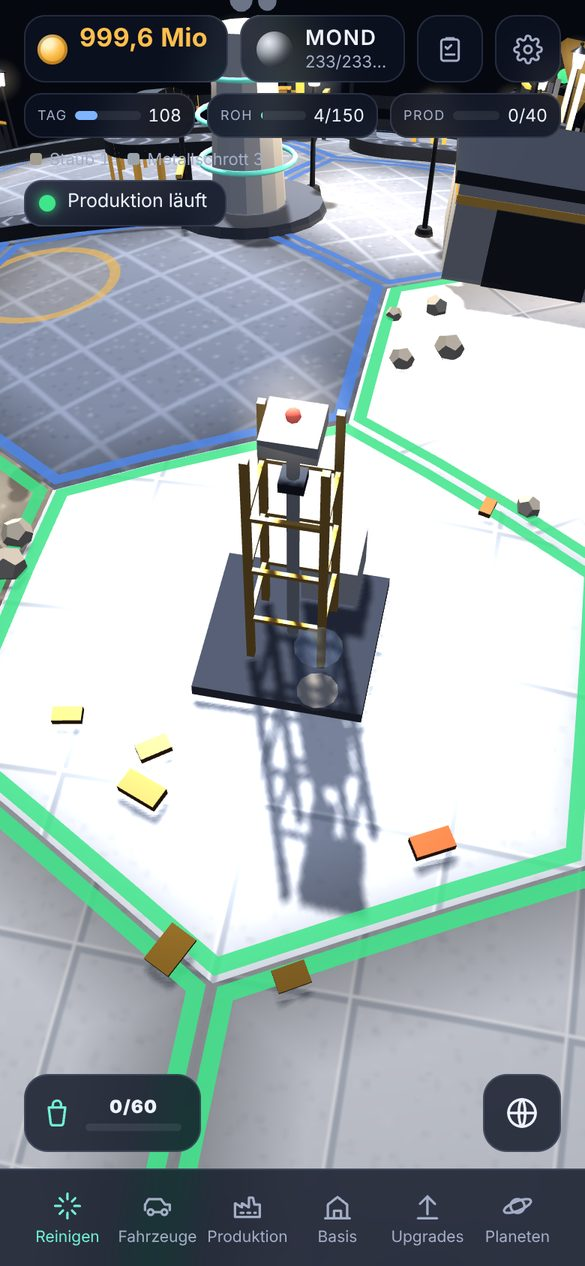
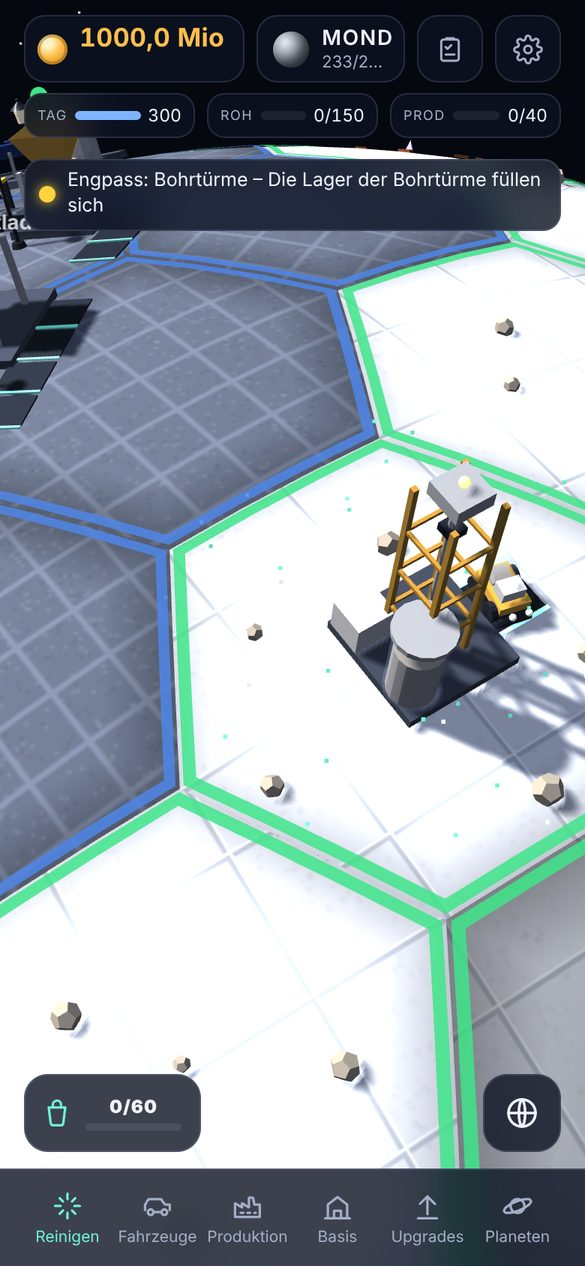
v4.5: drilling rigs store their output, vehicles collect it; visible drilling
Claude-Session: https://claude.ai/code/session_01BgWwPMjR5e7A1i71jfEEtX

diff --git a/prototype/index.html b/prototype/index.html
@@ -914,10 +914,18 @@ function vehStep(pid,sp,v,dt,f,live){
   switch(v.mode){
     case 'seek':{
       if(tank>=cap*.98||battLow(v)){v.mode='toUnload';break;}
+      {const rg=pickRig(pid,sp,v,false);if(rg){rg.claim=v.id;v.rig=rg.cell;v.mode='toRig';break;}}
       const c=chooseCell(pid,sp,v);
-      if(c<0){if(tank>.5){v.mode='toUnload';break;}v.status=v.fix!=null?'Kein verfügbarer Arbeitsbereich':'Kein Auftrag';
+      if(c<0){const rg=pickRig(pid,sp,v,true);if(rg){rg.claim=v.id;v.rig=rg.cell;v.mode='toRig';break;}if(tank>.5){v.mode='toUnload';break;}v.status=v.fix!=null?'Kein verfügbarer Arbeitsbereich':'Kein Auftrag';
         const pp=parkPos(sp,v);if(!navMove(pid,v,basePlanDir(pd,pp[0],pp[1]),spd*.7*dt,R))v.busy=true;break;}
       if(!ensureAct(pid,c)){v.fix=null;break;}v.cell=c;v.ti=-1;if(requestLift(pid,sp,v,c))break;v.mode='drive';break;}
+    case 'toRig':{const r=(sp.rigs||[]).find(x=>x.cell===v.rig);if(!r||r.claim!==v.id){v.rig=null;v.mode='seek';break;}
+      v.busy=true;battUse(v,dt);v.status='Fährt zum Bohrturm';if(navMove(pid,v,rigDock(pid,r),spd*dt,R))v.mode='rigload';break;}
+    case 'rigload':{const r=(sp.rigs||[]).find(x=>x.cell===v.rig);if(!r){v.rig=null;v.mode='seek';break;}
+      const b=sumObj(r.buf),amt=Math.min(RIG.load*uv('urate')*dt,cap-tank,b);v.status='Lädt am Bohrturm';
+      if(amt>0){const k=amt/b;for(const m in r.buf){const x=r.buf[m]*k;r.buf[m]-=x;if(r.buf[m]<1e-6)delete r.buf[m];v.tank[m]=(v.tank[m]||0)+x;}v.coll=(v.coll||0)+amt;}
+      if(cap-sumObj(v.tank)<.5||sumObj(r.buf)<.05){r.claim=null;v.rig=null;v.mode=sumObj(v.tank)>.5?'toUnload':'seek';}
+      break;}
     case 'liftwait':{if(v.lift==null||!sp.lifters.some(l=>l.id===v.lift&&l.veh===v.id)){v.lift=null;v.mode='drive';break;}v.status='Wartet auf Lastdrohne';break;}
     case 'lifted':{if(v.lift==null||!sp.lifters.some(l=>l.id===v.lift&&l.veh===v.id)){v.lift=null;v.mode='drive';break;}v.status='Wird eingeflogen';break;}
     case 'drive':case 'clean':{
@@ -1015,7 +1023,7 @@ function outpostWhy(pid,id){const sp=S.planets[pid],w=W[pid],cl=planetData(pid).
   if(sp.outposts.some(o=>o.cell===id||cl.nb.includes(o.cell)))return 'Zu nah an einem anderen Außenlager';return '';}
 /* ---- Tiefenabbau: once a planet is completely clean, drilling rigs on clean parcels mine raw material forever and pump it to the base.
    Their flow is what makes belts, machines, storage, night power and selling worth expanding on finished planets. ---- */
-const RIG={buf:150,pipe:6,energy:1.5,base:.8};
+const RIG={buf:300,load:16,energy:1.5,base:.8};
 const rigRich=(pid,id)=>{let h=(id*2654435761+(PORDER.indexOf(pid)+1)*40503)>>>0;h^=h>>>15;h=Math.imul(h,2246822519)>>>0;h^=h>>>13;return .6+(h%1000)/1000;};
 const rigMax=sp=>2+2*sp.stage;
 const rigCost=pid=>Math.round(3000*PLANETS[pid].diff*Math.pow(1.45,(S.planets[pid].rigs||[]).length));
@@ -1037,15 +1045,19 @@ function buildRig(id){const pid=S.planet,sp=SP();if(id==null||id<0){id=bestRigCe
   toast('Bohrturm auf '+cellName(id)+' fördert '+MATS[rigMat(pid,id)].name+' ('+richTxt(rigRich(pid,id))+'es Vorkommen)','good');save();}
 function rigStep(pid,sp,r,dt,f){const m=rigMat(pid,r.cell),b=sumObj(r.buf);
   if(b<RIG.buf-.01){const x=Math.min(RIG.buf-b,rigRate(pid,r)*f*dt);r.buf[m]=(r.buf[m]||0)+x;r.mined=(r.mined||0)+x;S.ctr.deep=(S.ctr.deep||0)+x;sp.stats.value+=x*MATS[m].v*pvM(pid);if(TRACK){const t=TRACK.p[pid];t.mats[m]=(t.mats[m]||0)+x;}r.busy=true;}else r.busy=false;
-  const fr=rohCap()-rohSum(sp),bb=sumObj(r.buf);
-  if(bb>.001&&fr>.01){const amt=Math.min(bb,fr,RIG.pipe*uv('bspeed')*Math.max(.25,f)*dt),k=amt/bb;for(const mm in r.buf){const y=r.buf[mm]*k;r.buf[mm]-=y;sp.roh[mm]=(sp.roh[mm]||0)+y;}}
-  r.status=sumObj(r.buf)>=RIG.buf-.5?(fr<=.01?'Steht – Rohstofflager voll':'Puffer voll – Leitung zu langsam'):f<.6?'Bohrt langsam – zu wenig Energie':'Bohrt';}
+  if(r.claim!=null&&!sp.veh.some(v=>v.id===r.claim&&v.rig===r.cell&&(v.mode==='toRig'||v.mode==='rigload')))r.claim=null;
+  r.status=sumObj(r.buf)>=RIG.buf-.5?(sp.veh.length?'Lager voll – wartet auf Abholung':'Lager voll – kein Fahrzeug holt ab'):f<.6?'Bohrt langsam – zu wenig Energie':'Bohrt'+(r.claim!=null?' · Fahrzeug holt ab':'');}
+const rigDock=(pid,r)=>toDir(planetData(pid).cells[r.cell],2.7,0,planetData(pid).R);
+/* vehicles pick up from rigs: whenever they have nothing to clean, or when a rig store is 70 % full */
+function pickRig(pid,sp,v,idle){if(v.fix!=null||!(sp.rigs||[]).length)return null;const cap=tankCap(v)-sumObj(v.tank);if(cap<5)return null;let best=null,bs=1e9;
+  for(const r of sp.rigs){if(r.claim!=null)continue;const b=sumObj(r.buf);if(b<(idle?Math.min(15,RIG.buf*.05):RIG.buf*.7))continue;const d=arcDist(v.d,rigDock(pid,r),planetData(pid).R)-b*.05;if(d<bs){bs=d;best=r;}}
+  return best;}
 function rigSec(pid,id){const sp=S.planets[pid],r=(sp.rigs||[]).find(x=>x.cell===id),m=rigMat(pid,id),rich=rigRich(pid,id);
-  if(r)return '<section class="sec"><h3>Bohrturm</h3><p class="note">Fördert '+MATS[m].name+' aus der Tiefe und pumpt es durch eine unterirdische Leitung ins Rohstofflager. Braucht Strom – auch nachts.</p><dl class="kv"><dt>Status</dt><dd data-b="'+bind(()=>r.status)+'"></dd><dt>Vorkommen</dt><dd>'+richTxt(rich)+' · ×'+dec(rich,2)+'</dd><dt>Förderung</dt><dd data-b="'+bind(()=>dec(rigRate(pid,r)*60,0)+' '+MATS[m].name+' pro Minute')+'"></dd><dt>Puffer</dt><dd data-b="'+bind(()=>fmt(sumObj(r.buf))+' / '+RIG.buf)+'"></dd><dt>Gefördert</dt><dd data-b="'+bind(()=>fmt(r.mined||0))+'"></dd></dl>'+upgRow('rigrate')+'</section>';
+  if(r)return '<section class="sec"><h3>Bohrturm</h3><p class="note">Fördert '+MATS[m].name+' aus der Tiefe und sammelt es im eigenen Lager. Deine Fahrzeuge holen es ab, sobald sie nichts zu reinigen haben oder das Lager zu 70 % voll ist. Braucht Strom – auch nachts.</p><dl class="kv"><dt>Status</dt><dd data-b="'+bind(()=>r.status)+'"></dd><dt>Vorkommen</dt><dd>'+richTxt(rich)+' · ×'+dec(rich,2)+'</dd><dt>Förderung</dt><dd data-b="'+bind(()=>dec(rigRate(pid,r)*60,0)+' '+MATS[m].name+' pro Minute')+'"></dd><dt>Lager</dt><dd data-b="'+bind(()=>fmt(sumObj(r.buf))+' / '+RIG.buf+' E')+'"></dd><dt>Gefördert</dt><dd data-b="'+bind(()=>fmt(r.mined||0))+'"></dd></dl>'+upgRow('rigrate')+'</section>';
   if(!S.done[pid])return '';const why=rigWhy(pid,id);
-  return '<section class="sec"><h3>Tiefenabbau</h3><p class="note">'+(why?why+'.':'Tiefenvorkommen: <b>'+richTxt(rich)+'</b> (×'+dec(rich,2)+') '+MATS[m].name+'. Ein Bohrturm fördert hier dauerhaft und pumpt alles in die Basis.')+'</p>'+(why?'':'<button class="buy wide" data-act="buildrig" data-id="'+id+'" data-en="'+bind(()=>S.credits>=rigCost(pid))+'">Bohrturm bauen · '+cr(rigCost(pid))+'</button>')+'</section>';}
+  return '<section class="sec"><h3>Tiefenabbau</h3><p class="note">'+(why?why+'.':'Tiefenvorkommen: <b>'+richTxt(rich)+'</b> (×'+dec(rich,2)+') '+MATS[m].name+'. Ein Bohrturm fördert hier dauerhaft, deine Fahrzeuge holen die Ladung ab.')+'</p>'+(why?'':'<button class="buy wide" data-act="buildrig" data-id="'+id+'" data-en="'+bind(()=>S.credits>=rigCost(pid))+'">Bohrturm bauen · '+cr(rigCost(pid))+'</button>')+'</section>';}
 function rigBaseSec(pid){const sp=S.planets[pid];if(!S.done[pid])return '';const rs=sp.rigs||[],n=rs.length,mx=rigMax(sp);
-  return '<section class="sec"><h3>Tiefenabbau</h3><p class="note">'+PLANETS[pid].name+' ist komplett sauber – jetzt geht es in die Tiefe. Bohrtürme auf sauberen Parzellen fördern dauerhaft Rohstoffe und pumpen sie in die Basis. Je mehr sie liefern, desto mehr lohnen schnellere Bänder, Maschinen, Lager, Strom für die Nacht und Verkaufskapazität. Jede Basisstufe erlaubt 2 Bohrtürme mehr.</p>'+
+  return '<section class="sec"><h3>Tiefenabbau</h3><p class="note">'+PLANETS[pid].name+' ist komplett sauber – jetzt geht es in die Tiefe. Bohrtürme auf sauberen Parzellen fördern dauerhaft Rohstoffe in ihr eigenes kleines Lager, deine Fahrzeuge holen sie dort ab. Je mehr sie liefern, desto mehr lohnen Fahrzeuge, Bänder, Maschinen, Lager, Strom für die Nacht und Verkaufskapazität. Jede Basisstufe erlaubt 2 Bohrtürme mehr.</p>'+
     '<dl class="kv"><dt>Bohrtürme</dt><dd>'+n+' / '+mx+'</dd><dt>Förderung</dt><dd data-b="'+bind(()=>dec((SP().rigs||[]).reduce((a,r)=>a+rigRate(S.planet,r),0)*60,0)+' E pro Minute')+'"></dd></dl>'+
     (n<mx?'<button class="buy wide" data-act="buildrig" data-id="-1" data-en="'+bind(()=>S.credits>=rigCost(S.planet))+'">Bohrturm auf dem besten Vorkommen · '+cr(rigCost(pid))+'</button><p class="note">Oder tippe eine saubere Parzelle an und baue dort.</p>':sp.stage<5?'<p class="note">Alle Plätze belegt – baue die Basis aus, um 2 weitere Bohrtürme zu bekommen.</p>':'')+
     upgRow('rigrate')+'</section>';}
@@ -1053,7 +1065,9 @@ function rigModel(L){const g=new THREE.Group(),v={g};add(Box(3.6,.3,3.6),L.pad,0
   for(const[x,z]of[[-.75,-.75],[.75,-.75],[-.75,.75],[.75,.75]])add(Box(.16,6.2,.16),legM,x,3.3,z,g);
   for(const y of[1.6,3.2,4.8])for(const[x,z,w,d]of[[0,-.75,1.5,.1],[0,.75,1.5,.1],[-.75,0,.1,1.5],[.75,0,.1,1.5]])add(Box(w,.1,d),legM,x,y,z,g);
   add(Box(1.1,.45,1.1),L.metal,0,6.55,0,g);v.drill=add(Cyl(.13,.13,6,8),L.metal,0,3.3,0,g);add(Box(.5,.25,.5),L.dark,0,5.2,0,g).position.y=5.2;
-  add(Box(1.3,1.1,1.2),L.white,1.55,.85,.6,g);add(Cyl(.5,.5,1.6,12),L.glass,-1.4,1.1,.8,g,false);v.fill=add(Cyl(.44,.44,1,12),mat(0xa49c8e,{roughness:.9}),-1.4,.5,.8,g);
+  add(Box(1.2,1,1.1),L.white,-1.2,.8,-1.15,g);add(Cyl(.75,.75,2.6,16),L.glass,-1.15,1.6,.95,g,false);v.fill=add(Cyl(.68,.68,1,16),mat(0xa49c8e,{roughness:.9}),-1.15,.5,.95,g);add(Cyl(.85,.85,.18,16),L.metal,-1.15,2.95,.95,g);
+  add(Box(1.7,.06,1.7),L.dark,2.7,.05,0,g,false);v.dockM=L.mint.clone();v.dockM.emissiveIntensity=.15;add(Box(1.8,.05,.12),v.dockM,2.7,.1,.9,g,false);add(Box(1.8,.05,.12),v.dockM,2.7,.1,-.9,g,false);
+  v.spark=new THREE.MeshStandardMaterial({color:0xffd08a,emissive:0xffb04d,emissiveIntensity:0});add(Sph(.32,10,8),v.spark,0,.42,0,g,false);
   v.beacon=new THREE.MeshStandardMaterial({color:0xff6b5b,emissive:0xff6b5b,emissiveIntensity:1});add(Sph(.15,8,6),v.beacon,0,6.95,0,g,false);
   const h=new THREE.Sprite(LAMP.halo);h.position.set(0,6.95,0);h.scale.set(2.4,2.4,1);h.renderOrder=6;g.add(h);
   g.traverse(o=>{if(o.isMesh)o.castShadow=true;});return v;}
@@ -2101,7 +2115,9 @@ const LCOL=[0x3fe58a,0xffd23f,0xff4d3d];
 function flowReport(pid){const sp=S.planets[pid],out=[];const o=CUR;CUR=pid;try{
   const add=(id,name,lvl,why,fix)=>out.push({id,name,lvl,why,fix:fix||[]});const rf=rohSum(sp)/rohCap(),pf=prodSum(sp)/prodCap();
   if(sp.ef<.99&&(sp.veh.length||sp.bld.presse||(sp.rigs||[]).length)){const night=!dayInfo(pid,sp).day;add(sp.bld.energy?'energy':'hq','Energie',2,night?'Nacht und der Speicher ist leer – mehr Akkupark, Radioisotopen-Generator oder Kernreaktor.':'Energie reicht nicht – Fahrzeuge, Bänder und Maschinen laufen langsamer.',night?['ecap','energy']:['energy','ecap']);}
-  {const rs=sp.rigs||[],stop=rs.filter(r=>r.status&&r.status.startsWith('Steht')).length,slow=rs.filter(r=>r.status&&r.status.startsWith('Puffer')).length;if(stop)add('roh','Bohrtürme',2,stop+' Bohrturm'+(stop>1?'türme':'')+' steht – das Rohstofflager ist voll. Mehr Lager, schnellere Bänder oder mehr Verkauf.',['rohcap','bspeed','sellcap']);else if(slow)add('roh','Bohrtürme',1,'Die Leitungen der Bohrtürme sind zu langsam – schnellere Bänder helfen.',['bspeed']);}
+  {const rs=sp.rigs||[],full=rs.filter(r=>sumObj(r.buf)>=RIG.buf-.5).length,high=rs.filter(r=>sumObj(r.buf)>=RIG.buf*.7).length;
+    if(full)add('roh','Bohrtürme',2,full+(full>1?' Bohrtürme sind':' Bohrturm ist')+' voll – '+(sp.veh.length?'die Fahrzeuge holen nicht schnell genug ab. Mehr Fahrzeuge, größere Tanks oder schnelleres Fahrwerk.':'kauf Fahrzeuge, die abholen.'),['vtank','vspeed','urate']);
+    else if(high)add('roh','Bohrtürme',1,'Die Lager der Bohrtürme füllen sich – die Abholung wird knapp.',['vtank','vspeed']);}
   for(const s of STATIONS)if(sp.bld[s]){const f=sumObj(sp.st[s].buf)/stBuf(s),full=rf>.97,cause=full?'das Rohstofflager voll ist':'das Förderband zu langsam abtransportiert';
     if(f>.97)add(s,BLD[s].name,2,'Puffer voll – Fahrzeuge warten, weil '+cause+'.',full?['rohcap','sellcap']:['bspeed','bcap','ubuf']);
     else if(f>.7)add(s,BLD[s].name,1,'Puffer füllt sich – '+(full?'das Rohstofflager ist voll':'das Förderband kommt nicht ganz hinterher')+'.',full?['rohcap','sellcap']:['bspeed','bcap']);
@@ -2379,7 +2395,10 @@ function updateVisuals(dt,t){
   if(bvv0().rtg&&bvv0().rtg.glow)bvv0().rtg.glow.emissiveIntensity=.8+.4*Math.sin(t*2.2);
   if(bvv0().reactor&&bvv0().reactor.core)bvv0().reactor.core.emissiveIntensity=1+.5*Math.sin(t*3.1);
   for(const id of['geo','reactor'])if(bvv0()[id]&&bvv0()[id].steam&&!mapMode&&Math.random()<dt*8)emit3(basePlanDir(pd,BLD[id].pos[0]-(id==='reactor'?1:.7),BLD[id].pos[1]),R+(id==='reactor'?4.8:4),0xdfe6ef,1,.25,1.2);
-  for(const r of sp.rigs||[]){const rv=buildViews['r'+r.cell];if(!rv)continue;if(r.busy)rv.drill.rotation.y+=dt*7;const f=Math.min(1,sumObj(r.buf)/RIG.buf),hh=Math.max(.02,f*1.5);rv.fill.scale.y=hh;rv.fill.position.y=.3+hh/2;rv.beacon.emissiveIntensity=Math.sin(t*3+r.cell)>.6?1.6:.25;}
+  for(const r of sp.rigs||[]){const rv=buildViews['r'+r.cell];if(!rv)continue;const cl=pd.cells[r.cell];
+    if(r.busy){rv.drill.rotation.y+=dt*9;rv.drill.position.y=3.3-.35*(.5+.5*Math.sin(t*2.2+r.cell));rv.spark.emissiveIntensity=1.2+Math.sin(t*23+r.cell)*.6;if(!mapMode&&Math.random()<dt*14)emit3(cl.c,R+.4,DIRT[cl.type].light,1,1.6,1.6);}else rv.spark.emissiveIntensity=0;
+    const f=Math.min(1,sumObj(r.buf)/RIG.buf),hh=Math.max(.02,f*2.4);rv.fill.scale.y=hh;rv.fill.position.y=.3+hh/2;rv.dockM.emissiveIntensity=r.claim!=null?.9:.15;
+    rv.beacon.color.setHex(f>=.99?0xff6b5b:f>=.7?0xffbf4d:0x3fe58a);rv.beacon.emissive.setHex(f>=.99?0xff6b5b:f>=.7?0xffbf4d:0x3fe58a);rv.beacon.emissiveIntensity=Math.sin(t*3+r.cell)>.4?1.6:.35;}
   for(const o of sp.outposts){const ov=buildViews[o.key];if(!ov||!ov.fill)continue;const f=Math.min(1,sumObj(o.buf)/stBuf(o.key)),hh=Math.max(.02,f*2.9);ov.fill.scale.y=hh;ov.fill.position.y=.55+hh/2;
     ov.docks.forEach((m,k)=>{m.emissiveIntensity=k>=stDocks(o.key)?0:o.docks[k]?.9+.3*Math.sin(t*8):.15;});}
   if(bvv0().hangar&&bvv0().hangar.pads){const dn=sp.drones.filter(d=>d.mode==='idle'&&!d.busy).length;bvv0().hangar.pads.forEach((m,k)=>{m.emissiveIntensity=k<dn?.9:.2;});}

diff --git a/index.html b/index.html
@@ -137,7 +137,7 @@ footer .wrap{display:flex;flex-wrap:wrap;gap:8px 24px;justify-content:space-betw
 <header class="hero">
   <div class="wrap">
     <div>
-      <div class="eyebrow">Mobile Idle-Tycoon · Spielbarer Prototyp v4.4</div>
+      <div class="eyebrow">Mobile Idle-Tycoon · Spielbarer Prototyp v4.5</div>
       <h1 style="margin-top:14px">Lunar Cleanup <span>Tycoon</span></h1>
       <p class="lead">Ein ganzer Mond voller Schrott. Du wischst die ersten Parzellen selbst sauber, dann übernehmen Buggys, Förderbänder, Pressen und Drohnen. Und wenn du das Spiel schließt, putzt deine Flotte einfach weiter.</p>
       <div class="cta">
@@ -322,7 +322,7 @@ footer .wrap{display:flex;flex-wrap:wrap;gap:8px 24px;justify-content:space-betw
     <div class="trio">
       <article><img src="assets/screens/09-auftraege.jpg" width="585" height="1266" alt="Tägliche Aufträge mit Fortschrittsbalken und Belohnungen"><h3>Tägliche Aufträge</h3><p>Jeden Tag drei neue Aufgaben, etwa 600 m² reinigen oder 250 Staub verkaufen. Sie zählen auf allen Planeten und auch offline. Wer alle drei schafft, bekommt 50 % Bonus.</p></article>
       <article><img src="assets/screens/15-ziele.jpg" width="585" height="1266" alt="Ziel-Übersicht mit aktuellem Ziel und Erfolgen"><h3>Ziele und Erfolge</h3><p>44 Hauptziele führen vom ersten Wisch bis nach Pluto. Dazu kommen 17 Erfolge mit je mehreren Stufen, etwa für gereinigte Parzellen, Raketenstarts oder eingeflogene Maschinen. Alles steht in einer Übersicht.</p></article>
-      <article><img src="assets/screens/08-planeten.jpg" width="585" height="1266" alt="Planetenliste mit Fortschritt und Anzeige „reinigt sich selbst“"><h3>Sternenstaub</h3><p>Ein komplett sauberer Planet gibt dauerhaft +10 % Preise, und dort beginnt der Tiefenabbau: Bohrtürme fördern Rohstoffe aus der Tiefe, die Basis wächst weiter. Später startest du mit Sternenstaub neu: jeder bringt für immer +5 % Preise und +3 % Reinigungsleistung.</p></article>
+      <article><img src="assets/screens/08-planeten.jpg" width="585" height="1266" alt="Planetenliste mit Fortschritt und Anzeige „reinigt sich selbst“"><h3>Sternenstaub</h3><p>Ein komplett sauberer Planet gibt dauerhaft +10 % Preise, und dort beginnt der Tiefenabbau: Bohrtürme fördern Rohstoffe aus der Tiefe in ihr eigenes Lager, deine Fahrzeuge holen sie ab, und die Basis wächst weiter. Später startest du mit Sternenstaub neu: jeder bringt für immer +5 % Preise und +3 % Reinigungsleistung.</p></article>
     </div>
   </div>
 </section>
@@ -347,14 +347,14 @@ footer .wrap{display:flex;flex-wrap:wrap;gap:8px 24px;justify-content:space-betw
       <figure><img src="assets/screens/13-kernreaktor.jpg" width="585" height="1266" alt="Kernreaktor" loading="lazy"><figcaption>Kernreaktor</figcaption></figure>
       <figure><img src="assets/screens/14-nacht.jpg" width="585" height="1266" alt="Nacht" loading="lazy"><figcaption>Nachtschicht mit Scheinwerfern</figcaption></figure>
       <figure><img src="assets/screens/15-ziele.jpg" width="585" height="1266" alt="Ziele" loading="lazy"><figcaption>Ziele und Erfolge</figcaption></figure>
-      <figure><img src="assets/screens/16-bohrturm.jpg" width="585" height="1266" alt="Bohrturm" loading="lazy"><figcaption>Bohrturm auf dem sauberen Mond</figcaption></figure>
+      <figure><img src="assets/screens/16-bohrturm.jpg" width="585" height="1266" alt="Bohrturm" loading="lazy"><figcaption>Buggy holt am Bohrturm ab</figcaption></figure>
     </div>
   </div>
 </section>
 
 <footer>
   <div class="wrap">
-    <span>Lunar Cleanup Tycoon · Prototyp v4.4 · Oktober 2026</span>
+    <span>Lunar Cleanup Tycoon · Prototyp v4.5 · Oktober 2026</span>
     <span>Alle Rechte vorbehalten</span>
   </div>
 </footer>

diff --git a/site/page.html b/site/page.html
@@ -131,7 +131,7 @@ footer .wrap{display:flex;flex-wrap:wrap;gap:8px 24px;justify-content:space-betw
 <header class="hero">
   <div class="wrap">
     <div>
-      <div class="eyebrow">Mobile Idle-Tycoon · Spielbarer Prototyp v4.4</div>
+      <div class="eyebrow">Mobile Idle-Tycoon · Spielbarer Prototyp v4.5</div>
       <h1 style="margin-top:14px">Lunar Cleanup <span>Tycoon</span></h1>
       <p class="lead">Ein ganzer Mond voller Schrott. Du wischst die ersten Parzellen selbst sauber, dann übernehmen Buggys, Förderbänder, Pressen und Drohnen. Und wenn du das Spiel schließt, putzt deine Flotte einfach weiter.</p>
       <div class="cta">
@@ -316,7 +316,7 @@ footer .wrap{display:flex;flex-wrap:wrap;gap:8px 24px;justify-content:space-betw
     <div class="trio">
       <article><img src="assets/screens/09-auftraege.jpg" width="585" height="1266" alt="Tägliche Aufträge mit Fortschrittsbalken und Belohnungen"><h3>Tägliche Aufträge</h3><p>Jeden Tag drei neue Aufgaben, etwa 600 m² reinigen oder 250 Staub verkaufen. Sie zählen auf allen Planeten und auch offline. Wer alle drei schafft, bekommt 50 % Bonus.</p></article>
       <article><img src="assets/screens/15-ziele.jpg" width="585" height="1266" alt="Ziel-Übersicht mit aktuellem Ziel und Erfolgen"><h3>Ziele und Erfolge</h3><p>44 Hauptziele führen vom ersten Wisch bis nach Pluto. Dazu kommen 17 Erfolge mit je mehreren Stufen, etwa für gereinigte Parzellen, Raketenstarts oder eingeflogene Maschinen. Alles steht in einer Übersicht.</p></article>
-      <article><img src="assets/screens/08-planeten.jpg" width="585" height="1266" alt="Planetenliste mit Fortschritt und Anzeige „reinigt sich selbst“"><h3>Sternenstaub</h3><p>Ein komplett sauberer Planet gibt dauerhaft +10 % Preise, und dort beginnt der Tiefenabbau: Bohrtürme fördern Rohstoffe aus der Tiefe, die Basis wächst weiter. Später startest du mit Sternenstaub neu: jeder bringt für immer +5 % Preise und +3 % Reinigungsleistung.</p></article>
+      <article><img src="assets/screens/08-planeten.jpg" width="585" height="1266" alt="Planetenliste mit Fortschritt und Anzeige „reinigt sich selbst“"><h3>Sternenstaub</h3><p>Ein komplett sauberer Planet gibt dauerhaft +10 % Preise, und dort beginnt der Tiefenabbau: Bohrtürme fördern Rohstoffe aus der Tiefe in ihr eigenes Lager, deine Fahrzeuge holen sie ab, und die Basis wächst weiter. Später startest du mit Sternenstaub neu: jeder bringt für immer +5 % Preise und +3 % Reinigungsleistung.</p></article>
     </div>
   </div>
 </section>
@@ -341,14 +341,14 @@ footer .wrap{display:flex;flex-wrap:wrap;gap:8px 24px;justify-content:space-betw
       <figure><img src="assets/screens/13-kernreaktor.jpg" width="585" height="1266" alt="Kernreaktor" loading="lazy"><figcaption>Kernreaktor</figcaption></figure>
       <figure><img src="assets/screens/14-nacht.jpg" width="585" height="1266" alt="Nacht" loading="lazy"><figcaption>Nachtschicht mit Scheinwerfern</figcaption></figure>
       <figure><img src="assets/screens/15-ziele.jpg" width="585" height="1266" alt="Ziele" loading="lazy"><figcaption>Ziele und Erfolge</figcaption></figure>
-      <figure><img src="assets/screens/16-bohrturm.jpg" width="585" height="1266" alt="Bohrturm" loading="lazy"><figcaption>Bohrturm auf dem sauberen Mond</figcaption></figure>
+      <figure><img src="assets/screens/16-bohrturm.jpg" width="585" height="1266" alt="Bohrturm" loading="lazy"><figcaption>Buggy holt am Bohrturm ab</figcaption></figure>
     </div>
   </div>
 </section>
 
 <footer>
   <div class="wrap">
-    <span>Lunar Cleanup Tycoon · Prototyp v4.4 · Oktober 2026</span>
+    <span>Lunar Cleanup Tycoon · Prototyp v4.5 · Oktober 2026</span>
     <span>Alle Rechte vorbehalten</span>
   </div>
 </footer>

diff --git a/prototype/tests/regression.py b/prototype/tests/regression.py
@@ -71,8 +71,8 @@ with game() as (pg, errs):
     r = E("""()=>{const t=__t,sp=t.S.planets.moon,pd=t.planetData('moon'),w=t.W.moon;const why0=t.rigWhy('moon',pd.cells.find(c=>c.kind!=='base'&&c.ring===3).id);
       for(const c of pd.cells)if(c.kind!=='base'){w.clean[c.id]=1;w.act.delete(c.id);}t.S.done.moon=1;t.S.credits+=1e7;const n0=(sp.rigs||[]).length;for(let i=0;i<20;i++)t.buildRig(-1);
       const n=sp.rigs.length,max=t.rigMax(sp);for(const k in sp.roh)sp.roh[k]=0;sp.energy=1e4;for(let i=0;i<60;i++)t.simStep('moon',1,false);
-      const mined=sp.rigs.reduce((a,r)=>a+r.mined,0);return {why0,n,max,mined,roh:t.rohSum(sp),status:sp.rigs.map(r=>r.status).slice(0,3),cells:new Set(sp.rigs.map(r=>r.cell)).size}}""")
-    show('deep drilling', r); check(r['n'] == r['max'] and r['cells'] == r['n'] and r['mined'] > r['n'] * 20 and r['roh'] > 0, 'deep drilling rigs')
+      const mined=sp.rigs.reduce((a,r)=>a+r.mined,0);const modes=new Set();let picked=0;for(let i=0;i<600;i++){t.simStep('moon',.5,false);for(const v of sp.veh){modes.add(v.mode);}}picked=sp.rigs.reduce((a,r)=>a+r.mined-t.sumObj(r.buf),0);return {veh:sp.veh.length,rigModes:[...modes].filter(m=>m.includes('ig')),picked,why0,n,max,mined,roh:t.rohSum(sp),status:sp.rigs.map(r=>r.status).slice(0,3),cells:new Set(sp.rigs.map(r=>r.cell)).size}}""")
+    show('deep drilling', r); check(r['n'] == r['max'] and r['cells'] == r['n'] and r['mined'] > r['n'] * 20 and r['picked'] > 100 and len(r['rigModes']) == 2, 'deep drilling rigs')
     r = E("""()=>{const t=__t,sp=t.S.planets.moon,L=t.dayLen('moon');sp.dayT=L*.25;const noon=t.dayF('moon',sp),pn=t.solarProd(Object.assign({},sp,{solar:noon}));sp.dayT=L*.75;const night=t.dayF('moon',sp);
       let avg=0;for(let i=0;i<100;i++){sp.dayT=L*i/100;avg+=t.dayF('moon',sp)/100;}sp.dayT=L*.75;t.simStep('moon',1,false);return {noon,night,avg,solarNight:sp.solar,di:t.dayInfo('moon',sp)}}""")
     show('day/night', r); check(r['noon'] > .99 and r['night'] == 0 and r['solarNight'] == 0 and .3 < r['avg'] * 2.6 / 2.6 < .5 and not r['di']['day'], 'day/night solar')
@@ -86,7 +86,7 @@ with game() as (pg, errs):
       return {e0,e1:t.energyProd(sp),geo:!!sp.bld.geo,cap:t.energyCap(sp),locked:t.vehLocked('eisfraese')}}""")
     show('energy + vehicle lock', r); check(r['e1'] >= r['e0'] + 159 and not r['geo'] and r['locked'], 'energy buildings / vehicle lock')
 
-    r = E("""()=>{const t=__t,sp=t.S.planets.moon,pd=t.planetData('moon'),w=t.W.moon;t.S.research.done.airlift=true;t.buildBuilding('lifter');t.buyLifter();
+    r = E("""()=>{const t=__t,sp=t.S.planets.moon,pd=t.planetData('moon'),w=t.W.moon;t.S.research.done.airlift=true;sp.rigs=[];t.buildBuilding('lifter');t.buyLifter();
       for(const c of pd.cells)if(c.kind!=='base'&&c.ring<=6){w.clean[c.id]=1;}w.nClean=pd.cells.filter(c=>c.kind!=='base'&&w.clean[c.id]).length;for(const c of pd.cells)if(c.ring>6)w.clean[c.id]=0;for(const[id,a]of[...w.act])w.act.delete(id);t.calcFront('moon');
       sp.veh=[];t.buyVehicle('truck');const v=sp.veh[0];v.d=t.basePlanDir(pd,2.5,13);v.mode='seek';const seen=new Set();for(let i=0;i<800;i++){t.simStep('moon',.25,false);seen.add(v.mode);}
       return {modes:[...seen],lifter:sp.lifters[0].mode}}""")

diff --git a/docs/GAME_SPEC.md b/docs/GAME_SPEC.md
@@ -1,4 +1,4 @@
-# Lunar Cleanup Tycoon – Spielspezifikation (Stand Prototyp v4.4)
+# Lunar Cleanup Tycoon – Spielspezifikation (Stand Prototyp v4.5)
 
 Mobile-3D-Spiel: Reinigungssimulation + Idle-Tycoon + Automatisierung + Planeten-Progression. Sprache der Oberfläche: Deutsch.
 
@@ -154,8 +154,8 @@ Mobile-3D-Spiel: Reinigungssimulation + Idle-Tycoon + Automatisierung + Planeten
 
 ## 9d. Tiefenabbau (ab v4.4)
 - Freigeschaltet pro Planet, sobald er komplett sauber ist (`S.done[pid]`). Bohrtürme auf sauberen Parzellen ab Ring 2, nicht auf Außenlagern, eine pro Parzelle, max. `2 + 2 × Basisstufe`.
-- Kosten `3 000 × diff × 1,45^n`. Förderung `0,8 E/s × Vorkommen × Diamantbohrköpfe (1 + 0,3·Stufe, lokal)`, Vorkommen fest pro Parzelle (Hash) 0,6–1,6, Material = ursprünglicher Schmutz der Parzelle. Puffer 150 E, unterirdische Leitung (unsichtbar) `6 E/s × Bandtempo` ins Rohstofflager, nur bei freiem Platz. Strom 1,5/s × Maschinen-Effizienz, solange gebohrt wird.
-- Basis-Fenster „Tiefenabbau“: Übersicht + „Bohrturm auf dem besten Vorkommen“ (Vorkommen / (1 + 0,05 × Ring)); Parzellenfenster zeigt Vorkommen und baut gezielt. Fahrzeuge umfahren Bohrtürme wie Außenlager. Ampel: Bohrtürme stehen (Lager voll) rot, Leitung zu langsam gelb.
+- Kosten `3 000 × diff × 1,45^n`. Förderung `0,8 E/s × Vorkommen × Diamantbohrköpfe (1 + 0,3·Stufe, lokal)`, Vorkommen fest pro Parzelle (Hash) 0,6–1,6, Material = ursprünglicher Schmutz der Parzelle. Eigenes Lager 300 E (Silo + Andockplatz bei lokal x = 2,7 m). Fahrzeuge (`toRig → rigload → toUnload`) holen ab: sofort, wenn ein Lager ≥ 70 % voll ist, sonst wenn sie nichts zu reinigen haben (ab 15 E); ein Fahrzeug pro Bohrturm, Laden 16 E/s × Schnellentladung. Strom 1,5/s × Maschinen-Effizienz, solange gebohrt wird.
+- Basis-Fenster „Tiefenabbau“: Übersicht + „Bohrturm auf dem besten Vorkommen“ (Vorkommen / (1 + 0,05 × Ring)); Parzellenfenster zeigt Vorkommen und baut gezielt. Fahrzeuge umfahren Bohrtürme wie Außenlager. Ampel: Bohrturm-Lager voll rot, ≥ 70 % gelb (Abhilfe: mehr/größere/schnellere Fahrzeuge).
 
 ## 10. Gefahren pro Planet
 - Siehe Tabelle Abschnitt 12. Stürme kommen periodisch (`every`, `dur`) und multiplizieren Fahrzeug-, Band- und Maschinentempo, Solarstrom und Staubrate.

diff --git a/docs/PROGRESS.md b/docs/PROGRESS.md
@@ -1,6 +1,7 @@
 # Fortschritt
 
-## Fertig – Browser-Prototyp v4.4 (`prototype/index.html`)
+## Fertig – Browser-Prototyp v4.5 (`prototype/index.html`)
+- v4.5: Bohrtürme haben ein eigenes Lager (300 E, sichtbarer Silo mit Füllstand, Andockplatz) statt einer Leitung. Fahrzeuge holen dort ab, wenn sie nichts zu reinigen haben oder ein Lager 70 % voll ist, und bringen es zur Entladestation. Sichtbares Bohren: Bohrgestänge dreht und hebt sich, Funken und Staub am Bohrloch, Leuchte grün/gelb/rot nach Füllstand.
 - v4.4: **Tiefenabbau** auf komplett sauberen Planeten: Bohrtürme auf sauberen Parzellen (2 + 2 × Basisstufe pro Planet) fördern dauerhaft den Rohstoff der Parzelle (Vorkommen mager/gut/reich ×0,6–1,6) und pumpen ihn ins Rohstofflager; brauchen Strom, stehen bei vollem Lager (Ampel). Upgrade „Diamantbohrköpfe“, zwei neue Erfolge. Laternen jetzt paarweise symmetrisch an der Seite zur Basismitte, mehr Abstand zu Bändern.
 - v4.3: Straßenlaternen in der Basis (1–2 je Gebäude, bis zu 27 pro Planet), die nachts leuchten und die Gebäude anstrahlen. Layout-Test prüft sie auf allen 10 Planeten.
 - v4.2: Arbeitslicht beim Wischen (Lampe + weicher Lichtfleck um den Saugkopf, ab Dämmerung). Verlässt der Finger beim Wischen die Parzelle, pausiert der Saugkopf (roter Ring), das Bild bleibt stehen; nur ein kurzer Wisch ohne Ertrag wird noch zur Kamerabewegung. Randscrollen erst nach 0,45 s am Rand und nur über der eigenen Parzelle.

diff --git a/docs/CONVERSATION.md b/docs/CONVERSATION.md
@@ -37,6 +37,7 @@ Zusammenfassung der Entwicklungs-Unterhaltung (Claude-App, 28.–29.10.2026), au
 21. Beim manuellen Reinigen nachts eine **Lichtquelle**; das **Bild verschiebt sich störend**, wenn man beim Halten außerhalb der Fläche wischt. → v4.2.
 22. **Bessere Beleuchtung der Basis**: Laternen, die nachts auch die Gebäude anstrahlen. → v4.3.
 23. Laternen **besser positionieren**; **Mond 100 % sauber – was jetzt?** Fertige Planeten brauchen einen Grund, die Basis weiter auszubauen. → v4.4: Tiefenabbau mit Bohrtürmen, Laternen paarweise.
+24. Man sieht nicht, dass die Bohrtürme bohren; besser ein **kleines Lager am Bohrturm, das die Fahrzeuge anfahren und abholen**. → v4.5.
 
 ## Was der Spieler mag / nicht mag
 - Mag: sichtbaren Fortschritt, Automatisierung, die sich selbst trägt, mehrere Planeten parallel, klare Rückmeldungen (Farben, Ampel, Begründungen).

diff --git a/docs/DECISIONS.md b/docs/DECISIONS.md
@@ -86,3 +86,7 @@ Je eine Zeile: Entscheidung – Grund. Neue Einträge unten anfügen.
 - Feste Vorkommen pro Parzelle (mager/gut/reich) – eine kleine Standortentscheidung, ohne Zufall beim Neuladen.
 - Laternen als Paar an der Front jedes Gebäudes – vorher wirkte die Verteilung zufällig.
 - Bohrtürme liefern über unterirdische Leitungen (keine Röhren) – zwölf sichtbare Röhren über der Basis waren zu unruhig.
+
+## v4.5
+- Bohrtürme mit eigenem Lager, das die vorhandene Flotte abholt (statt unsichtbarer Leitung) – Wunsch des Spielers; man sieht so, dass gebohrt wird, und die Fahrzeuge haben auf fertigen Planeten wieder Arbeit.
+- Abholen hat Vorrang, sobald ein Lager 70 % voll ist; sonst nur, wenn es nichts zu reinigen gibt – Meteoritenstaub bleibt so weiter Aufgabe der Flotte.
